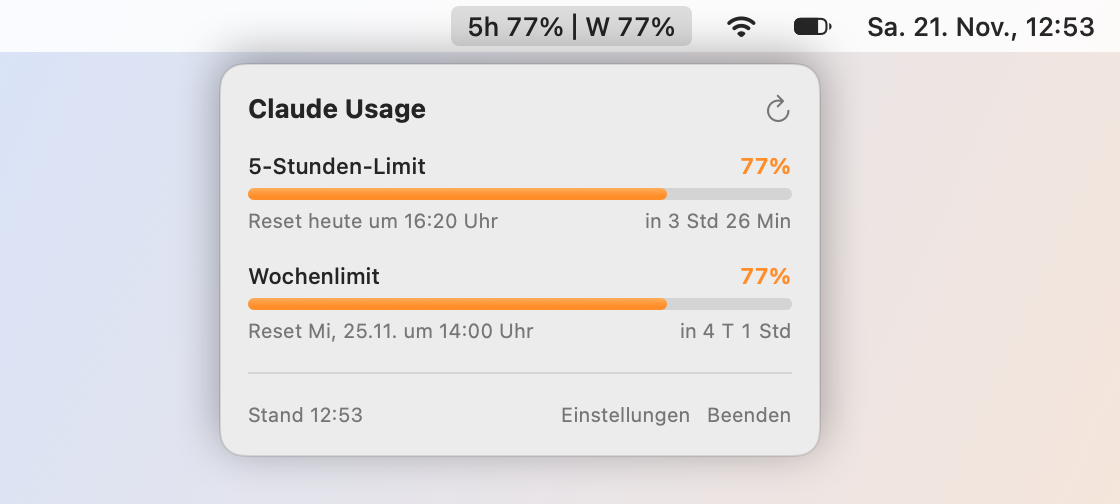
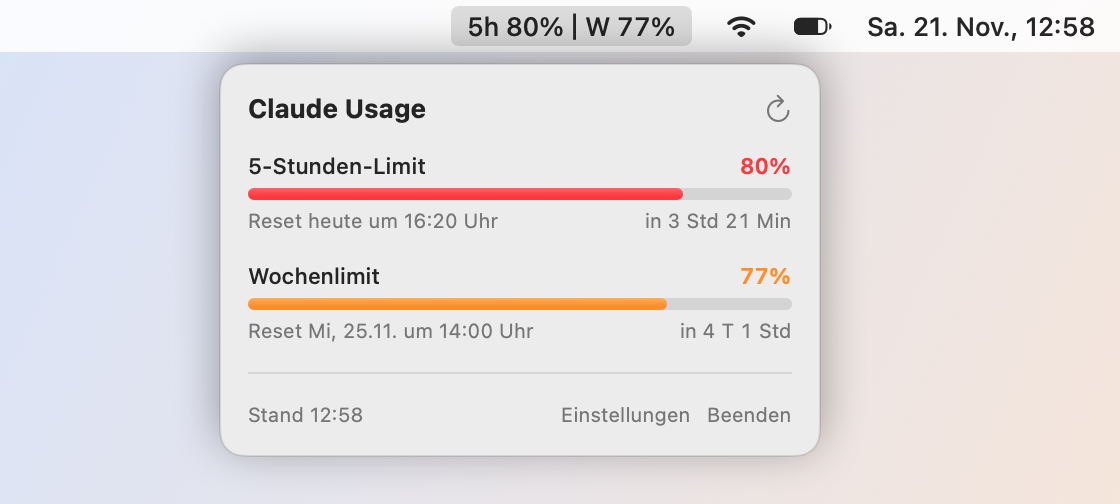
README: erweiterte Menüleisten-Anzeige mit Screenshot, MIT-Lizenz
Screenshot-Modus rendert zusätzlich menubar(-light).png (Standard vs. mit Reset-Uhrzeit).

diff --git a/Sources/ClaudeUsageBar/Screenshot.swift b/Sources/ClaudeUsageBar/Screenshot.swift
@@ -5,6 +5,7 @@ import AppKit
 /// Lädt einmal echte Daten und schreibt README-Bilder:
 ///   screenshot.png        – Menüleiste + aufgeklapptes Panel (dunkel)
 ///   screenshot-light.png  – dasselbe hell
+///   menubar.png / menubar-light.png – Menüleiste kompakt vs. mit Reset-Uhrzeit
 enum ScreenshotMode {
     static var outputDir: String? {
         let args = CommandLine.arguments
@@ -26,7 +27,19 @@ enum ScreenshotMode {
                     print("❌ \(path)")
                 }
             }
-            print("Menüleiste: \(model.menuBarTitle)")
+            // Menüleisten-Vergleich: kompakt vs. erweitert (Einstellung danach zurücksetzen)
+            let previous = model.showResetInBar
+            model.showResetInBar = false
+            let compact = model.menuBarTitle
+            model.showResetInBar = true
+            let extended = model.menuBarTitle
+            model.showResetInBar = previous
+            for (name, dark) in [("menubar.png", true), ("menubar-light.png", false)] {
+                let view = MenuBarVariants(compact: compact, extended: extended, dark: dark)
+                let path = (dir as NSString).appendingPathComponent(name)
+                print(await render(view, dark: dark, to: path) ? "✅ \(path)" : "❌ \(path)")
+            }
+            print("Menüleiste: \(compact)  |  erweitert: \(extended)")
             if let e = model.error { print("Fehler: \(e)") }
             NSApp.terminate(nil)
         }
@@ -104,6 +117,48 @@ private struct Showcase: View {
                 .padding(.trailing, 150)
                 .padding(.bottom, 24)
         }
+        .frame(width: 560)
+        .background(
+            LinearGradient(colors: dark ? [Color(red: 0.16, green: 0.12, blue: 0.22), Color(red: 0.08, green: 0.10, blue: 0.16)]
+                                        : [Color(red: 0.85, green: 0.89, blue: 0.97), Color(red: 0.96, green: 0.90, blue: 0.86)],
+                           startPoint: .topLeading, endPoint: .bottomTrailing)
+        )
+    }
+}
+
+/// Zwei Menüleisten-Zeilen untereinander: Standard und mit Reset-Uhrzeit
+private struct MenuBarVariants: View {
+    let compact: String
+    let extended: String
+    let dark: Bool
+
+    private func row(_ label: String, _ title: String) -> some View {
+        HStack(spacing: 12) {
+            Text(label)
+                .font(.system(size: 12, weight: .medium))
+                .foregroundStyle(.secondary)
+                .frame(width: 150, alignment: .leading)
+            Spacer(minLength: 0)
+            Text(title)
+                .font(.system(size: 13, weight: .medium))
+                .monospacedDigit()
+                .padding(.horizontal, 8)
+                .padding(.vertical, 2)
+                .background(RoundedRectangle(cornerRadius: 4).fill(Color.primary.opacity(0.15)))
+            Image(systemName: "wifi")
+            Image(systemName: "battery.75")
+        }
+        .padding(.horizontal, 12)
+        .frame(height: 30)
+        .background(dark ? Color.black.opacity(0.85) : Color.white.opacity(0.85))
+    }
+
+    var body: some View {
+        VStack(spacing: 8) {
+            row("Standard", compact)
+            row("Mit Reset-Uhrzeit", extended)
+        }
+        .padding(12)
         .frame(width: 560)
         .background(
             LinearGradient(colors: dark ? [Color(red: 0.16, green: 0.12, blue: 0.22), Color(red: 0.08, green: 0.10, blue: 0.16)]

diff --git a/README.md b/README.md
@@ -17,7 +17,22 @@ In der Menüleiste steht kompakt:
 5h 42% │ W 18%
 ```
 
-= 42 % vom 5-Stunden-Limit und 18 % vom Wochenlimit verbraucht. Optional (Einstellungen → *Reset-Uhrzeit in der Menüleiste*) auch mit Reset-Zeitpunkt: `5h 42% ↻14:00 │ W 18% ↻Mo 09:00`.
+= 42 % vom 5-Stunden-Limit und 18 % vom Wochenlimit verbraucht.
+
+### Erweiterte Anzeige: Reset-Uhrzeit direkt in der Menüleiste
+
+Wer auf einen Blick sehen will, **wann** das 5-Stunden-Fenster bzw. das Wochenlimit zurückgesetzt wird, schaltet unter **Einstellungen → *Reset-Uhrzeit in der Menüleiste*** die erweiterte Anzeige ein:
+
+```
+5h 42% ↻14:00 │ W 18% ↻Mo 09:00
+```
+
+<p align="center">
+  <picture>
+    <source media="(prefers-color-scheme: light)" srcset="docs/menubar-light.png">
+    <img src="docs/menubar.png" alt="Menüleiste: Standard vs. mit Reset-Uhrzeit" width="560">
+  </picture>
+</p>
 
 Ein Klick öffnet ein Panel mit:
 
@@ -99,7 +114,7 @@ Der Token verlässt deinen Mac nicht – er wird nur an die Anthropic-/claude.ai
 swift build -c release && .build/release/ClaudeUsageBar --screenshot docs
 ```
 
-Rendert `docs/screenshot.png` (dunkel) und `docs/screenshot-light.png` (hell) mit deinen aktuellen Werten.
+Rendert `docs/screenshot.png` / `docs/screenshot-light.png` (Panel, dunkel/hell) und `docs/menubar.png` / `docs/menubar-light.png` (Menüleiste Standard vs. mit Reset-Uhrzeit) mit deinen aktuellen Werten. Vorher die laufende App beenden (`pkill -x ClaudeUsageBar`), sonst gibt’s schnell ein Rate-Limit.
 
 ## Projektstruktur
 
@@ -108,6 +123,7 @@ ClaudeUsageBar/
 ├── Package.swift                     # SwiftPM, macOS 13+
 ├── Info.plist                        # LSUIElement = true (kein Dock-Icon)
 ├── build.sh                          # bauen, Icon erzeugen, signieren, installieren, starten
+├── docs/                             # README-Screenshots
 ├── Resources/AppIcon.png             # App-Icon (1024 px)
 └── Sources/ClaudeUsageBar/
     ├── App.swift                     # MenuBarExtra, ViewModel, Panel-UI
@@ -118,3 +134,9 @@ ClaudeUsageBar/
 ## Hinweis
 
 Inoffizielles Hobbyprojekt, nicht von Anthropic. Die genutzten Usage-Endpunkte sind nicht öffentlich dokumentiert und können sich jederzeit ändern.
+
+Im Code stecken **keine** Keys oder Tokens: Jede:r nutzt automatisch die eigenen Claude-Code-Zugangsdaten aus dem eigenen Schlüsselbund.
+
+## Lizenz
+
+[MIT](LICENSE)
